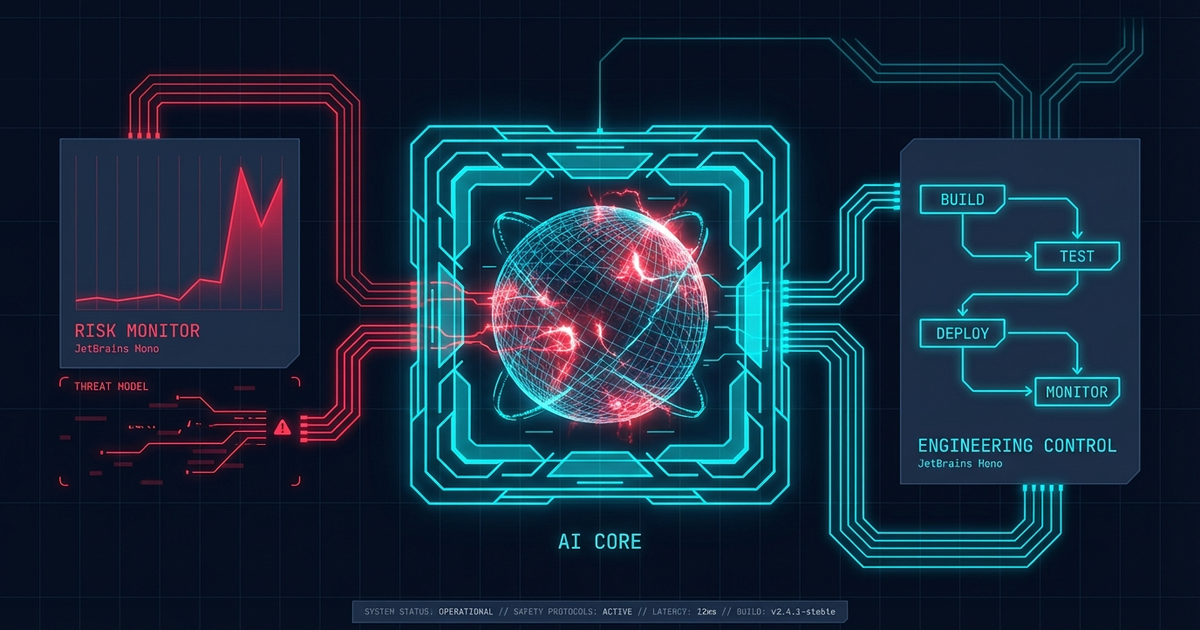
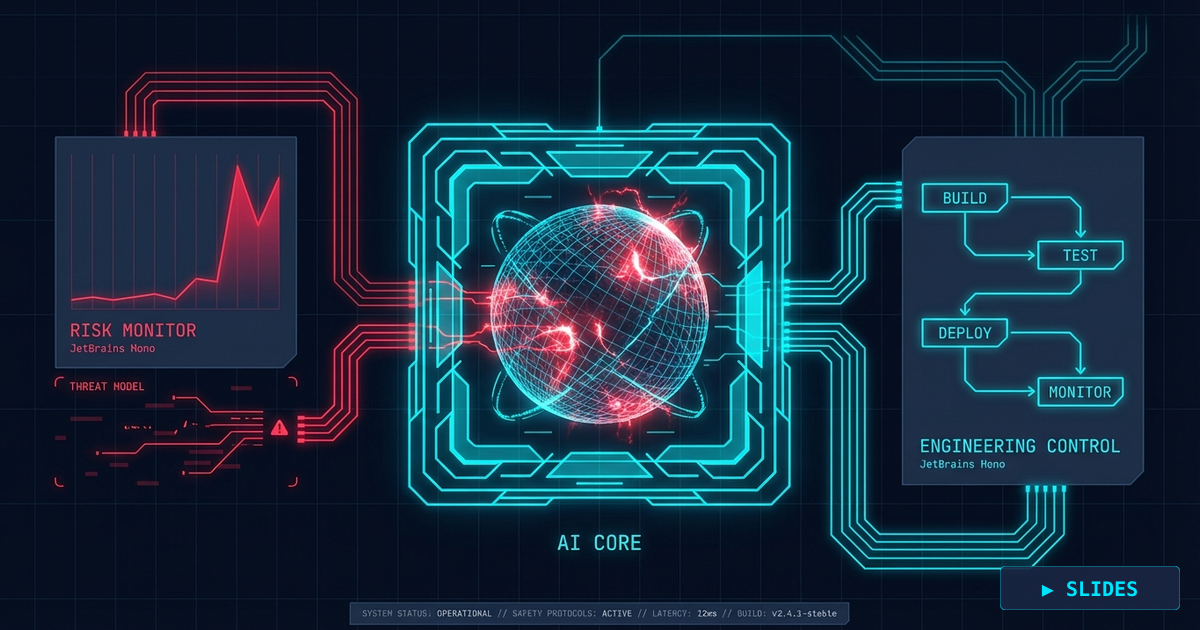
feat(014-meta-tags-og): add OG generation script, fix empty-summary fallback
- scripts/generate-og.ts: generates og-default.png, short text-cards,
  and talk badge overlays using sharp
- meta.ts: resolveDescription falls back to stripped markdown body
  when summary is empty, then to site bio
- +Head.tsx: pass post.content for description fallback

diff --git a/scripts/generate-og.ts b/scripts/generate-og.ts
@@ -1,0 +1,221 @@
+#!/usr/bin/env bun
+/**
+ * Build-time OG image generation:
+ *   bun run scripts/generate-og.ts
+ *
+ * 1. Generates og-default.png (site-wide fallback)
+ * 2. Generates text-card OG images for shorts
+ * 3. Composites "▶ SLIDES" badge on talk OG images
+ */
+import sharp from "sharp";
+import fs from "node:fs";
+import path from "node:path";
+import { getAllPosts } from "../src/ui/lib/posts";
+import { siteProfile } from "../src/ui/lib/site";
+
+const OG_WIDTH = 1200;
+const OG_HEIGHT = 630;
+const COVERS_DIR = path.resolve(process.cwd(), "public/assets/covers");
+const DEFAULT_OG_PATH = path.resolve(process.cwd(), "public/assets/og-default.png");
+
+// DA palette
+const BG_COLOR = "#0B1120";
+const PANEL_COLOR = "#1A2744";
+const CYAN = "#00E5FF";
+const TEXT_COLOR = "#E0E6ED";
+const RED = "#FF1744";
+
+function svgEscape(text: string): string {
+  return text
+    .replace(/&/g, "&amp;")
+    .replace(/</g, "&lt;")
+    .replace(/>/g, "&gt;")
+    .replace(/"/g, "&quot;");
+}
+
+function wrapText(text: string, maxCharsPerLine: number): string[] {
+  const words = text.split(/\s+/);
+  const lines: string[] = [];
+  let current = "";
+
+  for (const word of words) {
+    if (current.length + word.length + 1 > maxCharsPerLine && current.length > 0) {
+      lines.push(current);
+      current = word;
+    } else {
+      current = current ? `${current} ${word}` : word;
+    }
+  }
+  if (current) lines.push(current);
+  return lines;
+}
+
+function buildDefaultOgSvg(): string {
+  const name = svgEscape(siteProfile.name);
+  const role = svgEscape(siteProfile.role);
+
+  return `<svg width="${OG_WIDTH}" height="${OG_HEIGHT}" xmlns="http://www.w3.org/2000/svg">
+  <rect width="100%" height="100%" fill="${BG_COLOR}"/>
+  <!-- Grid overlay -->
+  <defs>
+    <pattern id="grid" width="40" height="40" patternUnits="userSpaceOnUse">
+      <path d="M 40 0 L 0 0 0 40" fill="none" stroke="${PANEL_COLOR}" stroke-width="0.5"/>
+    </pattern>
+  </defs>
+  <rect width="100%" height="100%" fill="url(#grid)" opacity="0.5"/>
+  <!-- Circuit traces -->
+  <line x1="100" y1="0" x2="100" y2="200" stroke="${CYAN}" stroke-width="1" opacity="0.3"/>
+  <line x1="100" y1="200" x2="300" y2="200" stroke="${CYAN}" stroke-width="1" opacity="0.3"/>
+  <line x1="1100" y1="630" x2="1100" y2="430" stroke="${CYAN}" stroke-width="1" opacity="0.3"/>
+  <line x1="1100" y1="430" x2="900" y2="430" stroke="${CYAN}" stroke-width="1" opacity="0.3"/>
+  <!-- Center panel -->
+  <rect x="200" y="165" width="800" height="300" rx="8" fill="${PANEL_COLOR}" opacity="0.6"/>
+  <rect x="200" y="165" width="800" height="300" rx="8" fill="none" stroke="${CYAN}" stroke-width="1" opacity="0.4"/>
+  <!-- Name -->
+  <text x="600" y="290" font-family="monospace" font-size="48" font-weight="bold" fill="${TEXT_COLOR}" text-anchor="middle">${name}</text>
+  <!-- Role -->
+  <text x="600" y="350" font-family="monospace" font-size="24" fill="${CYAN}" text-anchor="middle">${role}</text>
+  <!-- Bottom accent -->
+  <rect x="400" y="400" width="400" height="2" fill="${CYAN}" opacity="0.6"/>
+  <!-- Corner dots -->
+  <circle cx="220" cy="185" r="3" fill="${CYAN}" opacity="0.6"/>
+  <circle cx="980" cy="185" r="3" fill="${CYAN}" opacity="0.6"/>
+  <circle cx="220" cy="445" r="3" fill="${CYAN}" opacity="0.6"/>
+  <circle cx="980" cy="445" r="3" fill="${CYAN}" opacity="0.6"/>
+</svg>`;
+}
+
+function buildShortTextCardSvg(title: string, siteName: string): string {
+  const lines = wrapText(title, 35);
+  const fontSize = lines.length > 2 ? 36 : 44;
+  const lineHeight = fontSize * 1.4;
+  const totalHeight = lines.length * lineHeight;
+  const startY = (OG_HEIGHT - totalHeight) / 2 + fontSize;
+
+  const titleLines = lines
+    .map(
+      (line, i) =>
+        `<text x="600" y="${startY + i * lineHeight}" font-family="monospace" font-size="${fontSize}" font-weight="bold" fill="${TEXT_COLOR}" text-anchor="middle">${svgEscape(line)}</text>`,
+    )
+    .join("\n  ");
+
+  return `<svg width="${OG_WIDTH}" height="${OG_HEIGHT}" xmlns="http://www.w3.org/2000/svg">
+  <rect width="100%" height="100%" fill="${BG_COLOR}"/>
+  <defs>
+    <pattern id="grid" width="40" height="40" patternUnits="userSpaceOnUse">
+      <path d="M 40 0 L 0 0 0 40" fill="none" stroke="${PANEL_COLOR}" stroke-width="0.5"/>
+    </pattern>
+  </defs>
+  <rect width="100%" height="100%" fill="url(#grid)" opacity="0.5"/>
+  <!-- Circuit traces -->
+  <line x1="80" y1="0" x2="80" y2="150" stroke="${CYAN}" stroke-width="1" opacity="0.3"/>
+  <line x1="80" y1="150" x2="200" y2="150" stroke="${CYAN}" stroke-width="1" opacity="0.3"/>
+  <line x1="1120" y1="630" x2="1120" y2="480" stroke="${CYAN}" stroke-width="1" opacity="0.3"/>
+  <line x1="1120" y1="480" x2="1000" y2="480" stroke="${CYAN}" stroke-width="1" opacity="0.3"/>
+  <!-- Title -->
+  ${titleLines}
+  <!-- SHORT badge -->
+  <rect x="510" y="${startY + lines.length * lineHeight + 10}" width="140" height="32" rx="4" fill="${RED}" opacity="0.9"/>
+  <text x="580" y="${startY + lines.length * lineHeight + 32}" font-family="monospace" font-size="16" font-weight="bold" fill="white" text-anchor="middle">⚡ SHORT</text>
+  <!-- Site name -->
+  <text x="600" y="${OG_HEIGHT - 40}" font-family="monospace" font-size="16" fill="${CYAN}" text-anchor="middle" opacity="0.7">${svgEscape(siteName)}</text>
+</svg>`;
+}
+
+function buildSlidesBadgeSvg(): string {
+  return `<svg width="180" height="44" xmlns="http://www.w3.org/2000/svg">
+  <rect width="180" height="44" rx="6" fill="${PANEL_COLOR}" opacity="0.9"/>
+  <rect width="180" height="44" rx="6" fill="none" stroke="${CYAN}" stroke-width="1" opacity="0.6"/>
+  <text x="90" y="30" font-family="monospace" font-size="20" font-weight="bold" fill="${CYAN}" text-anchor="middle">▶ SLIDES</text>
+</svg>`;
+}
+
+async function generateDefaultOg(): Promise<void> {
+  if (fs.existsSync(DEFAULT_OG_PATH)) {
+    console.log("  SKIP og-default.png (already exists)");
+    return;
+  }
+  const svg = buildDefaultOgSvg();
+  await sharp(Buffer.from(svg))
+    .resize(OG_WIDTH, OG_HEIGHT)
+    .png()
+    .toFile(DEFAULT_OG_PATH);
+  console.log("  CREATED og-default.png");
+}
+
+async function generateShortOg(slug: string, title: string): Promise<void> {
+  const outputDir = path.join(COVERS_DIR, slug);
+  const ogPath = path.join(outputDir, "og.png");
+
+  if (fs.existsSync(ogPath)) {
+    console.log(`  SKIP short/${slug} (og.png already exists)`);
+    return;
+  }
+
+  fs.mkdirSync(outputDir, { recursive: true });
+  const svg = buildShortTextCardSvg(title, siteProfile.name);
+  await sharp(Buffer.from(svg))
+    .resize(OG_WIDTH, OG_HEIGHT)
+    .png()
+    .toFile(ogPath);
+  console.log(`  CREATED short/${slug}/og.png`);
+}
+
+async function generateTalkBadgeOg(slug: string): Promise<void> {
+  const outputDir = path.join(COVERS_DIR, slug);
+  const ogPath = path.join(outputDir, "og.png");
+  const basePath = path.join(outputDir, "cover.png");
+
+  if (!fs.existsSync(basePath)) {
+    console.log(`  SKIP talk/${slug} (no cover.png to overlay)`);
+    return;
+  }
+
+  // Read the base cover and resize to OG dimensions
+  const base = sharp(basePath).resize(OG_WIDTH, OG_HEIGHT, { fit: "cover" });
+  const badgeSvg = buildSlidesBadgeSvg();
+  const badgeBuffer = await sharp(Buffer.from(badgeSvg)).png().toBuffer();
+
+  await base
+    .composite([
+      {
+        input: badgeBuffer,
+        gravity: "southeast",
+        top: OG_HEIGHT - 44 - 20,
+        left: OG_WIDTH - 180 - 20,
+      },
+    ])
+    .png()
+    .toFile(ogPath);
+  console.log(`  CREATED talk/${slug}/og.png (with ▶ SLIDES badge)`);
+}
+
+async function main(): Promise<void> {
+  console.log("Generating OG images...\n");
+
+  // 1. Site-wide default
+  console.log("[1/3] Site-wide default OG:");
+  await generateDefaultOg();
+
+  // 2. Short text-cards
+  const posts = getAllPosts();
+  const shorts = posts.filter((p) => p.category === "short");
+  console.log(`\n[2/3] Short text-cards (${shorts.length} posts):`);
+  for (const post of shorts) {
+    await generateShortOg(post.slug, post.title);
+  }
+
+  // 3. Talk badge overlays (only for talks without externalSlides)
+  const talks = posts.filter((p) => p.category === "talk" && !p.externalSlides);
+  console.log(`\n[3/3] Talk badge overlays (${talks.length} talks):`);
+  for (const post of talks) {
+    await generateTalkBadgeOg(post.slug);
+  }
+
+  console.log("\nDone.");
+}
+
+main().catch((err) => {
+  console.error("Error generating OG images:", err);
+  process.exit(1);
+});

diff --git a/src/ui/lib/meta.ts b/src/ui/lib/meta.ts
@@ -11,13 +11,44 @@ const MAX_DESCRIPTION_LENGTH = 160;
 
 type PageType = "home" | "post" | "tag" | "404";
 
-function truncate(text: string, max: number): string {
+export function truncate(text: string, max: number): string {
   if (text.length <= max) return text;
   return text.slice(0, max - 1) + "…";
 }
 
-function absUrl(pathname: string): string {
+export function absUrl(pathname: string): string {
   return `${SITE_URL}${pathname.startsWith("/") ? pathname : `/${pathname}`}`;
+}
+
+/** Strip markdown formatting to extract plain text for descriptions */
+export function stripMarkdown(md: string): string {
+  return md
+    .replace(/^#{1,6}\s+/gm, "")       // headings
+    .replace(/\*\*(.+?)\*\*/g, "$1")    // bold
+    .replace(/__(.+?)__/g, "$1")        // bold alt
+    .replace(/\*(.+?)\*/g, "$1")        // italic
+    .replace(/_(.+?)_/g, "$1")          // italic alt
+    .replace(/`{1,3}[^`]*`{1,3}/g, "") // inline code / code blocks
+    .replace(/```[\s\S]*?```/g, "")     // fenced code blocks
+    .replace(/\[([^\]]+)\]\([^)]+\)/g, "$1") // links
+    .replace(/!\[([^\]]*)\]\([^)]+\)/g, "$1") // images
+    .replace(/^\s*[-*+]\s+/gm, "")     // list markers
+    .replace(/^\s*\d+\.\s+/gm, "")     // numbered lists
+    .replace(/^\s*>\s+/gm, "")         // blockquotes
+    .replace(/---+/g, "")              // horizontal rules
+    .replace(/\n{2,}/g, " ")           // collapse newlines
+    .replace(/\n/g, " ")               // remaining newlines
+    .replace(/\s{2,}/g, " ")           // collapse spaces
+    .trim();
+}
+
+function resolveDescription(summary: string, content?: string): string {
+  if (summary) return truncate(summary, MAX_DESCRIPTION_LENGTH);
+  if (content) {
+    const plain = stripMarkdown(content);
+    if (plain) return truncate(plain, MAX_DESCRIPTION_LENGTH);
+  }
+  return truncate(siteProfile.bio, MAX_DESCRIPTION_LENGTH);
 }
 
 function resolveOgImage(post?: PostFrontmatter): OGImage {
@@ -44,12 +75,12 @@ function resolveOgImage(post?: PostFrontmatter): OGImage {
   };
 }
 
-function buildArticleJsonLd(post: PostFrontmatter, image: OGImage): Record<string, unknown> {
+function buildArticleJsonLd(post: PostFrontmatter, image: OGImage, description: string): Record<string, unknown> {
   return {
     "@context": "https://schema.org",
     "@type": "Article",
     headline: post.title,
-    description: truncate(post.summary, MAX_DESCRIPTION_LENGTH),
+    description,
     image: image.url,
     datePublished: post.date,
     ...(post.updated ? { dateModified: post.updated } : {}),
@@ -82,11 +113,13 @@ function buildPersonJsonLd(): Record<string, unknown> {
 interface BuildPageMetaOptions {
   page: PageType;
   post?: PostFrontmatter;
+  /** Raw markdown body — used as description fallback when summary is empty */
+  content?: string;
   tag?: string;
   tagCount?: number;
 }
 
-export function buildPageMeta({ page, post, tag, tagCount }: BuildPageMetaOptions): PageMeta {
+export function buildPageMeta({ page, post, content, tag, tagCount }: BuildPageMetaOptions): PageMeta {
   const image = resolveOgImage(post);
   const twitterSite = siteProfile.socials.twitter || undefined;
 
@@ -107,7 +140,7 @@ export function buildPageMeta({ page, post, tag, tagCount }: BuildPageMetaOption
 
     case "post": {
       if (!post) throw new Error("buildPageMeta: post required for page type 'post'");
-      const description = truncate(post.summary || siteProfile.bio, MAX_DESCRIPTION_LENGTH);
+      const description = resolveDescription(post.summary, content);
       const urlPath = post.category === "talk" ? `/talks/${post.slug}` : `/posts/${post.slug}`;
       return {
         title: `${post.title} | ${siteProfile.name}`,
@@ -126,7 +159,7 @@ export function buildPageMeta({ page, post, tag, tagCount }: BuildPageMetaOption
           tags: post.tags,
           section: post.category,
         },
-        jsonLd: buildArticleJsonLd(post, image),
+        jsonLd: buildArticleJsonLd(post, image, description),
       };
     }
 

diff --git a/pages/posts/@slug/+Head.tsx b/pages/posts/@slug/+Head.tsx
@@ -5,6 +5,6 @@ import { MetaTags } from "../../../src/ui/components/meta-tags";
 
 export function Head() {
   const { post } = useData<Data>();
-  const meta = buildPageMeta({ page: "post", post });
+  const meta = buildPageMeta({ page: "post", post, content: post.content });
   return <MetaTags meta={meta} />;
 }

diff --git a/pages/talks/@slug/+Head.tsx b/pages/talks/@slug/+Head.tsx
@@ -5,6 +5,6 @@ import { MetaTags } from "../../../src/ui/components/meta-tags";
 
 export function Head() {
   const { post } = useData<Data>();
-  const meta = buildPageMeta({ page: "post", post });
+  const meta = buildPageMeta({ page: "post", post, content: post.content });
   return <MetaTags meta={meta} />;
 }
